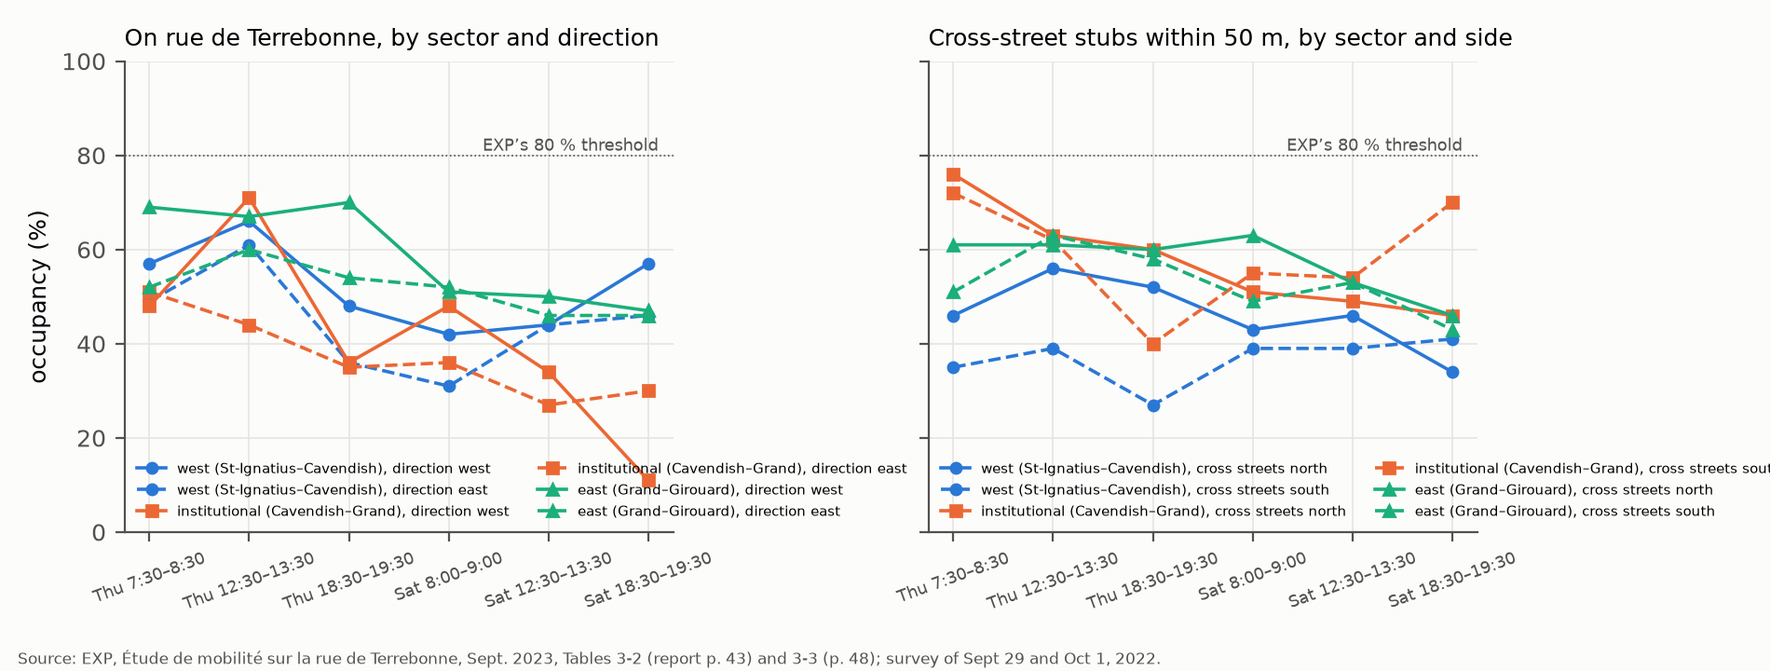
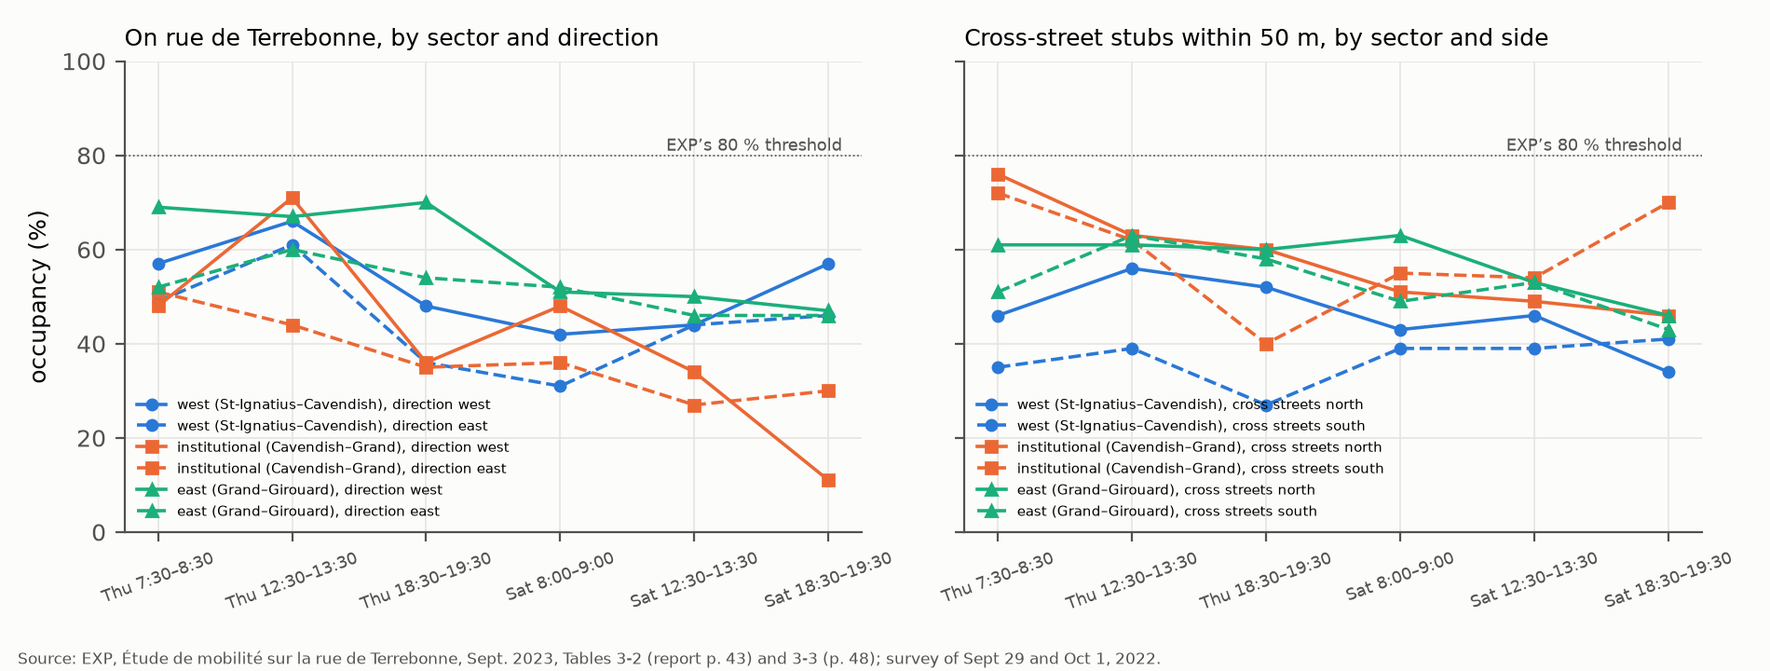
Parking supply and demand, survey in context: note (technical abstract + short lay summary), deck, lay abstracts short/long, README, root README row, figure layouts
Claude-Session: https://claude.ai/code/session_01DdMD1Ynaup9vHHTqib8XjE

diff --git a/2026-parking-supply-demand-survey-context/derived/build_docs.py b/2026-parking-supply-demand-survey-context/derived/build_docs.py
@@ -1,0 +1,166 @@
+#!/usr/bin/env python3
+"""Note (A4) and deck (beamer 16:9), English, plus the lay abstracts (short in the note, both as .txt), from summary.json and the figures of parking_analysis.py."""
+import csv, json, os, subprocess, datetime
+HERE = os.path.dirname(os.path.abspath(__file__)); S = json.load(open(os.path.join(HERE, 'summary.json'))); STAMP = datetime.datetime.now().strftime('%Y-%m-%d')
+URL = 'https://openmobilitydata.github.io/Terrebonne-open-sources/2026-parking-supply-demand-survey-context/'
+esc = lambda s: str(s).replace('&', '\\&').replace('%', '\\%').replace("'", "\\textquoteright{}").replace('–', '--').replace('≥', '$\\geq$').replace('≤', '$\\leq$')
+E, CU, SV, OF, RL, WN = S['exp'], S['curbs'], S['survey']['groups'], S['offstreet'], S['roll'], S['winters']
+on, bl, co = SV['on Terrebonne'], SV['within one block'], SV['corridor (both)']; tp = E['thu_pm']; T71 = E['stated']['table71']
+pc = lambda x: f'{100 * x:.0f}\\,\\%'; ci = lambda c: f'{100 * c[0]:.0f}--{100 * c[1]:.0f}\\,\\%'
+per_rows = '\n'.join(f"{r['label']} & {r['terrebonne_occupied']} & {r['terrebonne_vacant']} & {pc(r['terrebonne_occupancy'])} & {r['stubs_occupied']} & {r['stubs_vacant']} & {pc(r['stubs_occupancy'])} \\\\" for r in E['by_period'])
+sec_rows = '\n'.join(f"{s} & {v['blocks']} & {v['exp_supply_derived']} & {v['exp_thu_pm_occupied']} & {v['lidar_night']} & {pc(v['lidar_night_over_exp_supply'])} & {v['optical_day']} \\\\" for s, v in CU['by_sector'].items())
+sv_rows = '\n'.join(f"{esc(k)} & {g['respondents']} & {g['with_vehicle']} & {g['offstreet_built_ge1']} of {g['offstreet_built_answered']} & {g['parked_own_offstreet']} & {g['parked_terrebonne']} & {g['parked_cross_within_block']} & {g['street_parkers']} & {g['hardship_strict']} / {g['hardship_loose']} \\\\" for k, g in SV.items())
+win_rows = '\n'.join(f"{w['winter']} & {w['loading_borough']} & {w['loading_sector']} & {w['storm_to_loading_borough']} & {w['storm_to_loading_sector']} & {w['snow_days']} \\\\" for w in WN['rows'])
+fig = lambda name, w=1.0, cap='': f"\\begin{{figure}}[htbp]\\centering\\includegraphics[width={w}\\textwidth]{{figures/{name}_en.png}}" + (f"\\caption{{{cap}}}" if cap else '') + f"\\label{{fig:{name}}}\\end{{figure}}"
+one_side = (E['stated']['terrebonne_wb'] + E['stated']['terrebonne_eb']) / 2
+
+ABSTRACT = f"""The APC-NDG survey of October--November 2026 reports, for residents on rue de Terrebonne or within one block, how many keep a vehicle, how many have an off-street place, where the car was parked last night and how often winter parking was hard. Those are counts of respondents. This note places them against the measurements that exist of the parking they describe: the borough\\textquoteright{{}}s 2023 study (EXP), which inventoried {E['stated']['terrebonne']} on-street places on Terrebonne and {E['stated']['stubs']} on the cross-street stubs within 50 m and measured their occupancy on a Thursday and a Saturday of September--October 2022; the 2015 City LiDAR night and a daytime orthophoto, on which the cars at Terrebonne\\textquoteright{{}}s curbs were counted block by block before the 2024 lane; the 1954--55 insurance plans and present-day imagery, which give the share of buildings with a garage or driveway; the City assessment roll, which gives the dwellings; and five winters of snow-removal records. EXP found occupancy below its own 80\\,\\% threshold at every period in every sector: at 18:30--19:30 on the Thursday, {tp['terrebonne_occupied']} cars occupied {pc(tp['terrebonne_occupancy'])} of Terrebonne\\textquoteright{{}}s places, leaving {tp['terrebonne_vacant']} vacant there and {tp['stubs_vacant']} on the stubs. The 2015 night count found {CU['lidar_night_by_eye']} cars at the curbs, {pc(CU['lidar_night_over_exp_supply'])} of the 2022 supply, rising from {pc(CU['by_sector']['residential west']['lidar_night_over_exp_supply'])} in the west sector to {pc(CU['by_sector']['residential east']['lidar_night_over_exp_supply'])} in the east. Both measurements of demand before the lane are of the order of the supply that remains on one side today (about {one_side:.0f} places). On Terrebonne itself, {OF['pct_buildings']:.0f}\\,\\% of buildings and {OF['pct_dwellings']:.0f}\\,\\% of dwellings have a garage or driveway; the survey\\textquoteright{{}}s respondents on the street report an off-street place in {on['offstreet_built_ge1']} of {on['offstreet_built_answered']} households with a vehicle ({pc(on['offstreet_built_share'])}, interval {ci(on['offstreet_built_ci'])}), those within a block in {bl['offstreet_built_ge1']} of {bl['offstreet_built_answered']}. The survey\\textquoteright{{}}s {co['street_parkers']} street parkers and {co['hardship_strict']} reports of strict winter hardship are floors under a population of {RL['terrebonne']['dwellings']:,} dwellings on Terrebonne and {RL['within_block']['dwellings']:,} within a block, of which the survey reached {pc(RL['coverage']['on_terrebonne'])} and {pc(RL['coverage']['within_block'])}. The conditions the hardship questions describe occurred on about {WN['mean_storm_to_loading_sector']:.0f} nights a winter over the last five, {WN['mean_loading_sector']:.0f} of them with snow loading. No measurement of present-day occupancy, with the lane in place, exists; the first parking analysis the borough has commissioned since 2022 is due on November 27, 2026."""
+
+LAY = f"""Lay summary
+
+The survey asked people who live on rue de Terrebonne or within a block of it about their parking: whether they keep a car, whether they have a place off the street, where the car was parked last night, and how hard winter parking has been. The answers are counts of the people who replied, not measurements of the street. This note sets them beside the measurements that do exist.
+
+The borough's own 2023 study counted the parking places and measured how full they were on two days in the autumn of 2022. It found room everywhere: on the Thursday evening, half of the places on Terrebonne were empty, and so were about {tp['stubs_vacant']} places on the first 50 metres of the cross streets. A night-time laser survey of the city in 2015 shows {CU['lidar_night_by_eye']} cars parked along Terrebonne, about one place in three, fewer in the west and more in the east. Both of those counts, taken before the bike lane, are close to the number of places that remain on the one side of the street that still has parking today.
+
+Seven in ten homes on Terrebonne have a garage or a driveway, by a reading of the 1954 insurance plans and of today's aerial imagery. Survey respondents living on Terrebonne reported one less often, about half of the households with a car; respondents within a block reported one about as often as the imagery shows. The difference for the street itself is within what a sample of 35 can show, but it suggests that households without off-street parking were more likely to answer.
+
+{co['street_parkers']} respondents from the corridor had parked on a street the night before, {co['parked_terrebonne']} of them on Terrebonne itself, and {co['hardship_strict']} described real difficulty in winter under the survey's strict definition. Those are floors: there are {RL['terrebonne']['dwellings']:,} dwellings on Terrebonne and about {RL['within_block']['dwellings']:,} within a block, and the survey reached one home in fifteen on the street and one in seventy nearby. The conditions the difficulty questions describe, snow removal pending or under way, happened on about {WN['mean_storm_to_loading_sector']:.0f} nights a winter over the last five winters, {WN['mean_loading_sector']:.0f} of them nights of snow loading itself, with stretches of three weeks or more without any every winter.
+
+What no one has measured is how full the street is now, with the lane in place and parking on one side. The borough's own study of 2023 is the last measurement of occupancy; the next, commissioned in October 2026, is due on November 27 and counts the supply only.
+"""
+LAY_SHORT = f"""Lay summary
+
+The survey asked people living on rue de Terrebonne or within a block about their parking. They count the people who replied, not the street. This note sets them beside the measurements on record: the borough's 2023 study (places and their occupancy on two days in 2022), a 2015 night laser survey, the 1954 insurance plans with today's aerial imagery, the City's roll of dwellings, and five winters of snow-loading records.
+
+The 2023 study found half of Terrebonne's places empty on the Thursday evening; the 2015 night count found {CU['lidar_night_by_eye']} cars along the street, one place in three. Both, taken before the lane, are close to today's supply on one side. Seven in ten homes on Terrebonne have a garage or driveway; respondents on the street reported one less often, within what 35 answers can show. The survey's {co['street_parkers']} street parkers and {co['hardship_strict']} reports of winter difficulty are floors under {RL['terrebonne']['dwellings']:,} dwellings on the street and {RL['within_block']['dwellings']:,} nearby; snow loading constrained parking on about {WN['mean_storm_to_loading_sector']:.0f} nights a winter, {WN['mean_loading_sector']:.0f} with loading itself. Nobody has measured how full the street is now, lane in place.
+"""
+open(os.path.join(HERE, 'lay_abstract_en_long.txt'), 'w', encoding='utf-8').write(LAY.strip() + '\n'); open(os.path.join(HERE, 'lay_abstract_en_short.txt'), 'w', encoding='utf-8').write(LAY_SHORT.strip() + '\n')
+wc = lambda t: len(t.split()); lim = wc(' '.join(LAY.strip().split('\n\n')[1:3])); short_wc = wc(' '.join(LAY_SHORT.strip().split('\n\n')[1:]))
+assert short_wc <= lim, f'short lay summary {short_wc} words exceeds {lim}'; print(f'lay summary: long {wc(LAY)} words, short {short_wc} (limit {lim})')
+LAY_TEX = '\\section*{Lay summary}\n' + '\n\n'.join(esc(p) for p in LAY_SHORT.strip().split('\n\n')[1:]) + '\n'
+
+NOTE = r'''\documentclass[11pt,a4paper]{article}
+\usepackage[T1]{fontenc}\usepackage[utf8]{inputenc}\usepackage[scaled=0.95]{helvet}\renewcommand{\familydefault}{\sfdefault}
+\usepackage[a4paper,margin=2.2cm]{geometry}\usepackage{graphicx,booktabs,longtable,amsmath,caption}\usepackage[hidelinks]{hyperref}
+\captionsetup{font=small,labelfont=bf}\setlength{\parindent}{0pt}\setlength{\parskip}{0.6em}
+\begin{document}
+{\LARGE\textbf{Parking around rue de Terrebonne: supply, measured demand, and the survey\textquoteright{}s answers in context}}\\[4pt]
+{\small Terrebonne-open-sources, ''' + STAMP + r'''. Author: a resident of Côte-des-Neiges--Notre-Dame-de-Grâce (see the repository\textquoteright{}s « About the author »). Companion to the note on winter bicycle counts and user frequency. Data: EXP 2023 (the borough\textquoteright{}s published study), City LiDAR 2015 and assessment roll (open data, CC-BY 4.0), Québec orthophoto, BAnQ plans, ECCC, City snow-removal transactions, the APC-NDG survey\textquoteright{}s anonymized file. Code, tables and figures: \url{''' + URL + r'''}.}
+
+\section*{Abstract}
+''' + ABSTRACT + r'''
+
+''' + LAY_TEX + r'''
+\tableofcontents
+
+\section{Question}
+The companion note placed the survey\textquoteright{}s count of winter cyclists against the bicycle counters. This note does the same for its parking answers. The survey counts respondents: corridor residents who keep a vehicle, who have an off-street place, who parked on a street last night, who met the survey\textquoteright{}s definition of winter hardship. The measurements that exist of the same street are of a different kind: an inventory of places and their occupancy on two days (EXP, 2022), two snapshots of the cars at the curbs before the lane (LiDAR 2015; orthophoto), a reading of off-street parking building by building (the 1954--55 plans and present-day imagery), the dwellings on the roll, and the nights of snow-removal constraint. The questions are the same as before: what do the external measurements say about the population the respondents come from; can the survey\textquoteright{}s shares be checked against a ground truth; and what do the counts leave unmeasured.
+
+\section{Data}
+\begin{itemize}
+\item \textbf{EXP 2023} (Étude de mobilité sur la rue de Terrebonne, September 2023, the borough\textquoteright{}s published study). Supply (report p.~40): ''' + f"{E['stated']['terrebonne_wb']}" + r''' on-street places in the westbound direction and ''' + f"{E['stated']['terrebonne_eb']}" + r''' eastbound on Terrebonne; ''' + f"{E['stated']['stubs_north']}" + r''' north and ''' + f"{E['stated']['stubs_south']}" + r''' south on the first 50~m of the cross streets. Occupancy and vacant places by sector (west, St-Ignatius--Cavendish; institutional, Cavendish--Grand; east, Grand--Girouard), by direction or side and by period, on Thursday, September 29, 2022 (7:30--8:30, 12:30--13:30, 18:30--19:30) and Saturday, October 1 (8:00--9:00, 12:30--13:30, 18:30--19:30): Tables 3-2 (p.~43) and 3-3 (p.~48), transcribed in \texttt{exp2023\_parking\_tables\_transcribed.csv}. Works between Walkley and Cumberland at the time (p.~4). Table 7-1 (p.~88): ''' + f"{T71['current']}" + r''' places in the existing situation, ''' + f"{T71['standards']}" + r''' after bringing the street to standards, ''' + f"{T71['scenario1']}" + r'''--''' + f"{T71['scenario2']}" + r''' under the three concepts.
+\item \textbf{Cars at the curbs before the lane}: per block, both curbs, from the City\textquoteright{}s 2015 airborne LiDAR (a weeknight; cars read by eye on the height raster, ''' + f"{CU['lidar_night_by_eye']}" + r''') and from the Québec orthophoto (daytime, undated, before the 2024 lane; ''' + f"{CU['optical_day']}" + r'''), as read for the 1954-plans work (\texttt{1954-underwriters-plans-terrebonne-garages}). Two snapshots, not a before-and-after.
+\item \textbf{Off-street parking}: the 1954--55 Underwriters\textquoteright{} plans (garage as built) and present-day imagery (driveway or apron) for the ''' + f"{OF['buildings_checked']}" + r''' residential buildings with a Terrebonne address on the sixteen sheets available, joined to the roll for dwellings (''' + f"{OF['dwellings_checked']}" + r''').
+\item \textbf{Dwellings}: the City assessment roll (open data), units with a centroid between avenue Somerled (''' + f"{RL['band']['north_offset_m']:.0f}" + r'''~m north of the lane\textquoteright{}s axis) and avenue de Monkland (''' + f"{-RL['band']['south_offset_m']:.0f}" + r'''~m south), along the lane from its west end to Girouard, the two avenues\textquoteright{} own frontages included; the survey\textquoteright{}s « within one block » band.
+\item \textbf{Survey}: the anonymized file as of ''' + f"{S['survey']['asof']}" + r''' (''' + f"{S['survey']['responses']}" + r''' responses; the public filing of November 2 reports 205), with the criteria of the filing\textquoteright{}s methods page: a street parker ticked Terrebonne, a cross street or Somerled/Monkland for last night; strict hardship = ten minutes or more to find a space or a space two blocks or more away on a typical evening, or, after a storm or during loading, a car two blocks or more away, a ticket, a tow or a car moved out of the neighbourhood; loose adds « took much longer to find a space ».
+\item \textbf{Winters}: nights with snow removal pending or under way and nights with loading, December~1 to March~31, 2021--22 to 2025--26, for the borough and for Terrebonne\textquoteright{}s sector CDN-301 (City snow-removal transactions and ECCC; computed in the author\textquoteright{}s decision model).
+\end{itemize}
+
+\section{Method}
+EXP gives, for each sector and side, the occupancy rate and the number of vacant places at each period; the supply of that sector and side is recovered as vacant $/(1 - \text{rate})$ and taken as the median over the six periods (sum ''' + f"{E['derived_total_terrebonne']}" + r''' on Terrebonne and ''' + f"{E['derived_total_stubs']}" + r''' on the stubs against the stated ''' + f"{E['stated']['terrebonne']}" + r''' and ''' + f"{E['stated']['stubs']}" + r'''; the difference is rounding in the published rates). Occupied places per period follow. The curb counts are summed by block and by sector and set against the EXP supply of the same sector. The survey\textquoteright{}s shares carry 95\,\% Wilson intervals; the comparison with the plans-and-imagery reading is made on respondents on Terrebonne itself (the reading covers Terrebonne addresses only) and on those within a block. Coverage is respondents divided by dwellings on the roll, a share of dwellings rather than of households.
+
+\section{Results}
+\subsection{What EXP measured in 2022}
+\begin{table}[htbp]\centering\small\caption{Occupied and vacant places by period, September 29 and October 1, 2022 (EXP Tables 3-2 and 3-3; supply derived as described).}\label{tab:per}
+\begin{tabular}{@{}lrrrrrr@{}}\toprule period & Terrebonne occupied & vacant & occupancy & stubs occupied & vacant & occupancy\\ \midrule
+''' + per_rows + r'''
+\bottomrule\end{tabular}\end{table}
+Occupancy on Terrebonne as a whole never exceeded ''' + pc(E['max_occupancy_terrebonne']) + r''' at any period, and no sector-and-direction cell exceeded 71\,\% on Terrebonne or ''' + f"{E['peak_cell']['occupancy_pct']}" + r'''\,\% on the stubs (''' + esc(E['peak_cell']['sector']) + r''', ''' + esc(E['peak_cell']['side_or_direction']) + r''', ''' + esc(E['peak_cell']['period']) + r'''). At the Thursday evening period, the closest the survey comes to a residential evening, ''' + f"{tp['terrebonne_occupied']}" + r''' cars occupied ''' + pc(tp['terrebonne_occupancy']) + r''' of the places on Terrebonne, with ''' + f"{tp['terrebonne_vacant']}" + r''' vacant on the street and ''' + f"{tp['stubs_vacant']}" + r''' on the stubs; the east sector was the fullest (''' + f"{tp['residential east_terrebonne_occupied']}" + r''' occupied, ''' + f"{tp['residential east_terrebonne_vacant']}" + r''' vacant). EXP\textquoteright{}s own reading (p.~43 and p.~48) is that rates below 80\,\% leave flexibility, and its Table 7-1 projects the concepts\textquoteright{} ''' + f"{T71['scenario1']}" + r'''--''' + f"{T71['scenario2']}" + r''' remaining places against ''' + f"{T71['standards']}" + r''' after standards, with the residual capacity by sector and period in Tables 7-2 to 7-4 (pp.~89--90), where it notes that occupancy may be locally higher near Girouard, Grand and Walkley.
+''' + fig('exp_occupancy', 1.0, 'Occupancy by sector, direction or side, and period (EXP Tables 3-2 and 3-3). Dotted line: the 80\\,\\% threshold EXP uses.') + r'''
+''' + fig('exp_occupied_vacant', 0.9, 'Occupied (number on the bar) and vacant places per period on Terrebonne and on the cross-street stubs.') + r'''
+
+\subsection{The cars at the curbs, 2015 and the orthophoto}
+\begin{table}[htbp]\centering\small\caption{Cars at Terrebonne\textquoteright{}s curbs by sector, both sides, against EXP\textquoteright{}s supply and its Thursday-evening count.}\label{tab:sec}
+\begin{tabular}{@{}lrrrrrr@{}}\toprule sector & blocks & EXP supply (derived) & EXP occupied, Thu 18:30 & LiDAR night 2015 & night / supply & orthophoto, day\\ \midrule
+''' + sec_rows + r'''
+\bottomrule\end{tabular}\end{table}
+The 2015 weeknight (a leaf-on night of unknown week, both curbs available, before the lane) holds ''' + f"{CU['lidar_night_by_eye']}" + r''' cars on the ''' + f"{CU['length_m']:,}" + r'''~m of the lane, ''' + pc(CU['lidar_night_over_exp_supply']) + r''' of the 2022 supply, against a nominal capacity of about ''' + f"{CU['nominal_capacity_both_sides']}" + r''' at 6~m per car. The gradient runs east: ''' + pc(CU['by_sector']['residential west']['lidar_night_over_exp_supply']) + r''' of supply in the west sector, ''' + pc(CU['by_sector']['institutional']['lidar_night_over_exp_supply']) + r''' in the institutional sector, ''' + pc(CU['by_sector']['residential east']['lidar_night_over_exp_supply']) + r''' in the east, as in EXP\textquoteright{}s evening rates. The busiest blocks that night were ''' + esc(', '.join(f"{b['block']} ({b['cars']})" for b in CU['top_blocks_lidar'][:4])) + r'''. The daytime orthophoto holds ''' + f"{CU['optical_day']}" + r''', almost all on the south curb, which says more about the hour and the shadows than about demand. On the side the winter layout converts to parking (north west of Cavendish, south east of it) the night count is ''' + f"{CU['lidar_converted_side']}" + r''' and the day count ''' + f"{CU['optical_converted_side']}" + r'''.
+''' + fig('curb_cars_by_block', 1.0, 'Cars at the curbs by block, west to east: the 2015 LiDAR night (by eye) and the daytime orthophoto, both curbs; dashed: nominal capacity at 6 m per car; red strip: the side converted to parking in winter.') + r'''
+
+\textbf{Against the supply that remains.} The 2024 layout kept one parking band, of the order of ''' + f"{one_side:.0f}" + r''' places (EXP counted ''' + f"{E['stated']['terrebonne_wb']}" + r''' and ''' + f"{E['stated']['terrebonne_eb']}" + r''' per direction). The two measurements of demand before the lane, ''' + f"{CU['lidar_night_by_eye']}" + r''' cars on a 2015 night and ''' + f"{tp['terrebonne_occupied']}" + r''' on a 2022 Thursday evening, bracket that figure. In aggregate, the demand measured before the lane is of the order of the supply that remains on one side; by sector it is below it in the west and institutional sectors and near it in the east, before counting the ''' + f"{tp['stubs_vacant']}" + r''' places EXP found vacant on the stubs at the same evening hour. Whether the street is fuller today than those measurements suggest cannot be known from them: no occupancy count has been made since the lane was built.
+
+\subsection{Off-street parking: a ground truth for one survey question}
+''' + fig('offstreet_share', 0.9) + r'''
+The plans-and-imagery reading finds a garage or driveway at ''' + f"{OF['buildings_either']}" + r''' of ''' + f"{OF['buildings_checked']}" + r''' buildings (''' + f"{OF['pct_buildings']:.0f}" + r'''\,\%, interval ''' + ci(OF['buildings_ci']) + r''') and for ''' + f"{OF['dwellings_either']}" + r''' of ''' + f"{OF['dwellings_checked']}" + r''' dwellings (''' + f"{OF['pct_dwellings']:.0f}" + r'''\,\%); north side ''' + f"{OF['by_side']['N']['either']}" + r''' of ''' + f"{OF['by_side']['N']['checked']}" + r''', south side ''' + f"{OF['by_side']['S']['either']}" + r''' of ''' + f"{OF['by_side']['S']['checked']}" + r'''. Survey respondents on Terrebonne with a vehicle report at least one off-street place in ''' + f"{on['offstreet_built_ge1']}" + r''' of ''' + f"{on['offstreet_built_answered']}" + r''' cases (''' + pc(on['offstreet_built_share']) + r''', ''' + ci(on['offstreet_built_ci']) + r'''), those within a block in ''' + f"{bl['offstreet_built_ge1']}" + r''' of ''' + f"{bl['offstreet_built_answered']}" + r''' (''' + pc(bl['offstreet_built_share']) + r'''). The on-street figure sits at the low edge of its interval against the reading. Two readings fit: households without off-street parking on Terrebonne were more likely to answer, which is what a survey about parking would be expected to do; or some respondents with a driveway did not count it (the question asked for places « built for a vehicle now »). Within a block, the survey and the reading agree, though the reading does not cover the cross streets. Either way, the survey\textquoteright{}s parking answers should not be read as shares of the street\textquoteright{}s households.
+
+\subsection{The survey\textquoteright{}s demand floor}
+\begin{table}[htbp]\centering\small\caption{The survey\textquoteright{}s parking answers by group (anonymized file as of ''' + f"{S['survey']['asof']}" + r'''). Street parkers ticked a street for last night; hardship strict / loose as in the filing.}\label{tab:sv}
+\resizebox{\textwidth}{!}{\begin{tabular}{@{}lrrrrrrrr@{}}\toprule group & respondents & with a vehicle & off-street place (of answered) & parked own off-street & on Terrebonne & cross street within a block & street parkers & hardship strict / loose\\ \midrule
+''' + sv_rows + r'''
+\bottomrule\end{tabular}}\end{table}
+''' + fig('survey_parked_last_night', 0.9) + r'''
+Of the ''' + f"{co['respondents']}" + r''' corridor respondents, ''' + f"{co['with_vehicle']}" + r''' keep a vehicle; ''' + f"{co['street_parkers']}" + r''' parked on a street the night before (''' + f"{co['parked_terrebonne']}" + r''' on Terrebonne, ''' + f"{co['parked_cross_within_block']}" + r''' on a cross street within a block), and of those ''' + f"{co['hardship_strict']}" + r''' met the strict hardship criterion and ''' + f"{co['hardship_loose']}" + r''' the loose one. On Terrebonne itself, ''' + f"{on['street_parkers']}" + r''' of ''' + f"{on['respondents']}" + r''' respondents are street parkers and ''' + f"{on['hardship_strict']}" + r''' of them report strict hardship; ''' + f"{on['street_parkers_no_offstreet']}" + r''' of the ''' + f"{on['street_parkers']}" + r''' have no off-street place of their own. These are floors under the population, in the sense of the filing: at least this many answered this way.
+
+\subsection{The population}
+The roll holds ''' + f"{RL['terrebonne']['dwellings']:,}" + r''' dwellings in ''' + f"{RL['terrebonne']['units']}" + r''' units with a Terrebonne address along the lane, and ''' + f"{RL['within_block']['dwellings']:,}" + r''' dwellings in ''' + f"{RL['within_block']['units']:,}" + r''' units within the Somerled--Monkland band (bounding-box extract, clipped near Girouard on the north side). The survey reached ''' + pc(RL['coverage']['on_terrebonne']) + r''' of the dwellings on the street and ''' + pc(RL['coverage']['within_block']) + r''' of those within a block. The plans-and-imagery reading covers ''' + f"{OF['dwellings_checked']}" + r''' of the ''' + f"{RL['terrebonne']['dwellings']:,}" + r''' dwellings on the street (houses and plexes on the sheets available; the apartment blocks and the missing sheet are outside it).
+
+\subsection{The winters}
+\begin{table}[htbp]\centering\small\caption{Nights with a snow-removal constraint on parking, December 1 to March 31, five winters (borough; sector CDN-301).}\label{tab:win}
+\begin{tabular}{@{}lrrrrr@{}}\toprule winter & loading, borough & loading, sector & storm-to-loading, borough & storm-to-loading, sector & snow days $\geq 2.5$ cm\\ \midrule
+''' + win_rows + r'''
+\bottomrule\end{tabular}\end{table}
+''' + fig('winter_constraint_nights', 0.8) + r'''
+The hardship questions ask about a typical winter evening and about the days after a storm or during loading. Over five winters the second condition held on about ''' + f"{WN['mean_storm_to_loading_sector']:.0f}" + r''' of 121 nights in the sector, ''' + f"{WN['mean_loading_sector']:.0f}" + r''' of them with loading itself, with stretches of three weeks or more without it every winter. The survey cannot say how often a given respondent met the condition; the record says how often the condition existed.
+
+\section{Discussion}
+\textbf{What the external data settle.} Before the lane, parking on Terrebonne was measured twice and found about one-third to one-half full at the hours measured, with the east sector fuller than the west and ample room on the cross-street stubs. Seven in ten dwellings on the street have off-street parking. The supply that remains on one side today is of the order of the demand measured then. Those are measurements, and the survey\textquoteright{}s counts sit inside them: ''' + f"{co['street_parkers']}" + r''' street parkers among ''' + f"{RL['band_total']['dwellings']:,}" + r''' dwellings is a floor, not a rate, and the off-street check shows the sample tilted, on the street itself, toward households that park on the street.
+
+\textbf{What they do not.} The present occupancy, with the lane in place, is unmeasured: the borough has counted nothing since 2022, the survey\textquoteright{}s « last night » is an autumn night reported by respondents, and the 2015 night is a single snapshot with both curbs open. The hardship counts have no external check at all, only a record of how often the triggering conditions occur. The first parking analysis commissioned since 2022 (EXP\textquoteright{}s mandate of October 6, 2026, due November 27) is an analysis of supply, « cases existantes, ajoutées ou retranchées », not of occupancy.
+
+\textbf{What would close the gap.} A night occupancy count on Terrebonne\textquoteright{}s remaining band and on the cross streets within a block, repeated on a few weeknights including one with snow removal pending, would give the measurement the 2022 survey gave for the pre-lane street; extending the garage-and-driveway reading to the first block of each cross street would give the within-a-block respondents the same ground truth the on-street respondents have.
+
+\section{Reproducibility}
+\texttt{parking\_analysis.py} reads the sources in place and writes \texttt{summary.json} (every number quoted here), \texttt{exp2022\_occupancy\_by\_period.csv}, \texttt{survey\_parking\_by\_group.csv} and the figures; \texttt{exp2023\_parking\_tables\_transcribed.csv} is the hand transcription of EXP\textquoteright{}s Tables 3-2 and 3-3 with their pages; \texttt{build\_docs.py} writes this note, the deck and the lay summaries. Generated ''' + esc(S['generated']) + r'''.
+\end{document}
+'''
+
+DECK = r'''\documentclass[aspectratio=169,10pt]{beamer}\usetheme{default}\usecolortheme{seahorse}\setbeamertemplate{navigation symbols}{}\setbeamertemplate{footline}[frame number]
+\usepackage[T1]{fontenc}\usepackage[utf8]{inputenc}\usepackage{helvet}\usepackage{booktabs}
+\title{Parking around rue de Terrebonne}\subtitle{Supply, measured demand, and the survey\textquoteright{}s answers in context}\author{Terrebonne-open-sources (a resident of Côte-des-Neiges--Notre-Dame-de-Grâce)}\date{''' + STAMP + r'''}
+\begin{document}
+\begin{frame}\titlepage\end{frame}
+\begin{frame}{The question}\begin{itemize}
+\item The survey counts respondents: who keeps a vehicle, who has an off-street place, where the car was last night, who met the winter-hardship definition.
+\item The measurements that exist are of another kind: EXP\textquoteright{}s 2022 inventory and occupancy (two days), the cars at the curbs on a 2015 night and a daytime orthophoto, off-street parking building by building, the roll\textquoteright{}s dwellings, five winters of snow-removal nights.
+\item What do they say about the population the respondents come from, which survey answers can be checked, and what remains unmeasured?
+\end{itemize}\end{frame}
+\begin{frame}{EXP 2022: occupancy by sector and period}\centering\includegraphics[width=0.95\textwidth]{figures/exp_occupancy_en.png}\\{\scriptsize Thursday Sept 29 and Saturday Oct 1, 2022; Tables 3-2 (p.~43) and 3-3 (p.~48). No cell above 71\,\% on Terrebonne; every sector below EXP\textquoteright{}s 80\,\% threshold at every period.}\end{frame}
+\begin{frame}{EXP 2022: occupied and vacant places}\centering\includegraphics[width=0.85\textwidth]{figures/exp_occupied_vacant_en.png}\\{\scriptsize Thursday 18:30--19:30: ''' + f"{tp['terrebonne_occupied']}" + r''' cars on Terrebonne (''' + pc(tp['terrebonne_occupancy']) + r'''), ''' + f"{tp['terrebonne_vacant']}" + r''' places vacant there and ''' + f"{tp['stubs_vacant']}" + r''' on the stubs. Supply per sector derived from the vacant places and the rate; stated totals ''' + f"{E['stated']['terrebonne']}" + r''' and ''' + f"{E['stated']['stubs']}" + r''' (p.~40).}\end{frame}
+\begin{frame}{The cars at the curbs before the lane}\centering\includegraphics[width=\textwidth]{figures/curb_cars_by_block_en.png}\end{frame}
+\begin{frame}{By sector: night 2015, EXP evening 2022, and today\textquoteright{}s one side}\centering\small\begin{tabular}{@{}lrrrrrr@{}}\toprule sector & blocks & EXP supply & EXP occupied, Thu 18:30 & LiDAR night 2015 & night / supply & orthophoto, day\\ \midrule
+''' + sec_rows + r'''
+\bottomrule\end{tabular}\\[6pt]\footnotesize Both measurements of demand before the lane (''' + f"{CU['lidar_night_by_eye']}" + r''' and ''' + f"{tp['terrebonne_occupied']}" + r''' cars on Terrebonne) are of the order of the one parking band that remains today (about ''' + f"{one_side:.0f}" + r''' places); below it in the west, near it in the east, with ''' + f"{tp['stubs_vacant']}" + r''' places vacant on the stubs at the same hour in 2022. Nothing has been measured since the lane was built.\end{frame}
+\begin{frame}{Off-street parking: a ground truth for one survey question}\centering\includegraphics[width=0.9\textwidth]{figures/offstreet_share_en.png}\\{\scriptsize Seven in ten dwellings on Terrebonne have a garage or driveway. Respondents on the street report one in ''' + f"{on['offstreet_built_ge1']}" + r''' of ''' + f"{on['offstreet_built_answered']}" + r''' households with a vehicle: at the low edge of the interval, as a survey about parking would be expected to show. Within a block, survey and reading agree.}\end{frame}
+\begin{frame}{The survey\textquoteright{}s demand floor}\centering\scriptsize\resizebox{\textwidth}{!}{\begin{tabular}{@{}lrrrrrrrr@{}}\toprule group & respondents & with a vehicle & off-street place & own off-street last night & on Terrebonne & cross street within a block & street parkers & hardship strict / loose\\ \midrule
+''' + sv_rows + r'''
+\bottomrule\end{tabular}}\\[6pt]\footnotesize Floors, in the filing\textquoteright{}s sense: at least this many answered this way. The roll holds ''' + f"{RL['terrebonne']['dwellings']:,}" + r''' dwellings on Terrebonne and ''' + f"{RL['within_block']['dwellings']:,}" + r''' within the Somerled--Monkland band; the survey reached ''' + pc(RL['coverage']['on_terrebonne']) + r''' and ''' + pc(RL['coverage']['within_block']) + r''' of them.\end{frame}
+\begin{frame}{Where the car was parked last night}\centering\includegraphics[width=0.85\textwidth]{figures/survey_parked_last_night_en.png}\end{frame}
+\begin{frame}{The winters the hardship questions describe}\centering\includegraphics[width=0.75\textwidth]{figures/winter_constraint_nights_en.png}\\{\scriptsize Snow removal pending or under way on about ''' + f"{WN['mean_storm_to_loading_sector']:.0f}" + r''' of 121 nights a winter in the sector, ''' + f"{WN['mean_loading_sector']:.0f}" + r''' with loading; stretches of three weeks or more without it every winter. The record gives how often the condition existed, not how often a respondent met it.}\end{frame}
+\begin{frame}{What is settled, what is not}\begin{itemize}
+\item Settled: before the lane, Terrebonne\textquoteright{}s parking was one-third to one-half full at the hours measured, fuller in the east; seven in ten dwellings have off-street parking; the one band that remains is of the order of the demand measured then.
+\item The survey\textquoteright{}s parking counts sit inside those measurements and are floors, not rates; on the street itself the sample tilts toward households that park on the street.
+\item Not settled: present occupancy with the lane in place (nothing counted since 2022); the hardship counts have no external check.
+\item EXP\textquoteright{}s mandate of October 6, 2026 (due November 27) analyses supply, not occupancy. A night count on the remaining band and the cross streets would close the gap.
+\item Code, tables, figures: \url{''' + URL + r'''}
+\end{itemize}\end{frame}
+\end{document}
+'''
+for name, src in (('parking_supply_demand_note_en', NOTE), ('parking_supply_demand_deck_en', DECK)):
+    open(os.path.join(HERE, name + '.tex'), 'w', encoding='utf-8').write(src)
+    for _ in range(3): subprocess.run(['pdflatex', '-interaction=batchmode', name + '.tex'], cwd=HERE, capture_output=True, text=True)
+    log = open(os.path.join(HERE, name + '.log'), encoding='latin-1').read(); errs = [l for l in log.splitlines() if l.startswith('!')]
+    for e in ('.aux', '.log', '.nav', '.out', '.snm', '.toc'):
+        try: os.remove(os.path.join(HERE, name + e))
+        except OSError: pass
+    pi = subprocess.run(['pdfinfo', os.path.join(HERE, name + '.pdf')], capture_output=True, text=True).stdout
+    print(name, (pi.split('Pages:')[1].split()[0] if 'Pages:' in pi else '?'), 'pages', ('ERRORS: ' + '; '.join(errs[:5])) if errs else 'ok')

diff --git a/2026-parking-supply-demand-survey-context/derived/parking_analysis.py b/2026-parking-supply-demand-survey-context/derived/parking_analysis.py
@@ -54,7 +54,7 @@ for i, (tab, title) in enumerate((('3-2', 'On rue de Terrebonne, by sector and d
         if k[0] != tab: continue
         ax[i].plot(x, [r['occ'] * 100 for r in v], ls[k[2]], marker=mk[k[1]], ms=4, lw=1.3, color=pal[k[1]], label=f'{SLAB[k[1]]}, {k[2]}')
     ax[i].axhline(80, color=C['ink2'], lw=0.6, ls=':'); ax[i].text(5.1, 81, 'EXP’s 80 % threshold', fontsize=6.5, color=C['ink2'], ha='right')
-    ax[i].set_xticks(x); ax[i].set_xticklabels([PLAB[p] for p in PERIODS], fontsize=6.5, rotation=20); ax[i].set_title(title, loc='left', fontsize=9); ax[i].legend(fontsize=5.5, ncol=2, loc='lower left'); ax[i].set_ylim(0, 100)
+    ax[i].set_xticks(x); ax[i].set_xticklabels([PLAB[p] for p in PERIODS], fontsize=6.5, rotation=20); ax[i].set_title(title, loc='left', fontsize=9); ax[i].legend(fontsize=5.5, ncol=1, loc='lower left'); ax[i].set_ylim(0, 100)
 ax[0].set_ylabel('occupancy (%)')
 foot(fig, 'Source: EXP, Étude de mobilité sur la rue de Terrebonne, Sept. 2023, Tables 3-2 (report p. 43) and 3-3 (p. 48); survey of Sept 29 and Oct 1, 2022.'); fig.tight_layout(rect=(0, 0.04, 1, 1)); fig.savefig(os.path.join(FIG, 'exp_occupancy_en.png')); plt.close(fig)
 # figure 2: occupied and vacant places per period
@@ -89,7 +89,7 @@ ax.plot(xb, [2 * b['nominal_per_side'] for b in BL], color=C['ink2'], lw=0.8, ls
 for i, b in enumerate(BL):
     if b['converted_side'] == 'N': ax.axvspan(i - 0.5, i + 0.5, ymin=0.97, ymax=1.0, color='#e34948', alpha=0.5)
     else: ax.axvspan(i - 0.5, i + 0.5, ymin=0.0, ymax=0.03, color='#e34948', alpha=0.5)
-ax.set_xticks(xb); ax.set_xticklabels([b['block_name'] for b in BL], rotation=70, fontsize=6); ax.set_ylabel('cars at the curbs'); ax.legend(fontsize=7, loc='upper left'); ax.set_title('Cars parked on rue de Terrebonne by block, west to east, before the 2024 lane (red strip = side converted to parking in winter: north west of Cavendish, south east of it)', loc='left', fontsize=8.5)
+ax.set_xticks(xb); ax.set_xticklabels([b['block_name'] for b in BL], rotation=70, fontsize=6); ax.set_ylabel('cars at the curbs'); ax.legend(fontsize=7, loc='upper left'); ax.set_title('Cars parked on rue de Terrebonne by block, west to east, before the 2024 lane (red strip: the side converted to parking in winter)', loc='left', fontsize=8.5)
 foot(fig, 'Sources: City LiDAR 2015 (CC-BY 4.0) and Québec orthophoto (Imagerie_GQ), readings by the author (1954-underwriters-plans-terrebonne-garages/derived/on_street_cars_by_block.csv). Two snapshots, not a before-and-after.'); fig.tight_layout(rect=(0, 0.04, 1, 1)); fig.savefig(os.path.join(FIG, 'curb_cars_by_block_en.png')); plt.close(fig)
 
 # ---------------------------------------------------------------- 3. the survey's parking answers (anonymized file; categories as in the filing's methods page)

diff --git a/README.md b/README.md
@@ -56,6 +56,7 @@ Rules:
 | [`2026-city-bike-counters/`](2026-city-bike-counters/) | The City's bicycle counters and intersection detectors: Eco-Compteur's release of June 4, 2026; Radio-Canada, May 29, 2026 (counts back online, 86 City counters, contract not renewed); the open-data methodology; SEAO notices 25-21000, 25-21046, 25-21195 and BC:1721642; council decision CM26 0337 of March 23, 2026 awarding the pedestrian-and-bicycle detector lot to Éco-Compteur (dossier excerpt and minutes); the FLIR TrafiSense2 and TrafiCam pages; the council decisions on detectors 2017–2026 as a table | Eco-Compteur, Radio-Canada, Ville de Montréal (SEAO, council archive, open data), FLIR | 2017–2026 |
 | [`2026-poster-winter-numbers/`](2026-poster-winter-numbers/) | One-page poster, *Rue de Terrebonne in winter: the numbers on one page*: monthly use, speeds, the figures said at council beside the counter's, the weather, the timeline; web page, PDF and preview | The repository's author, from public records | 2026-10-20 |
 | [`2024-st-monica-cra-t3010/`](2024-st-monica-cra-t3010/) | The public part of the T3010 charity returns of the parish of St Monica (6405 rue de Terrebonne), fiscal years 2008–2024: 2008–2018 as released by the CRA's Charities Directorate on December 6, 2024, 2019–2024 as row extracts of the CRA's open-data files (fetched October 23, 2026); tidy tables, charts and a data note EN/FR, with a comparison of the twelve other Catholic parishes of the area and of the streets around their churches (City open data, OpenStreetMap); no person named | Canada Revenue Agency (data); tables, charts and notes by the repository's author | 2024-12-06; 2026-10-23 |
+| [`2026-parking-supply-demand-survey-context/`](2026-parking-supply-demand-survey-context/) | Parking around rue de Terrebonne: EXP's 2022 inventory and occupancy by sector and period (two days), the cars at the curbs on the 2015 LiDAR night and the daytime orthophoto by block, off-street parking from the 1954 plans and imagery as a ground truth for the survey, the roll's dwellings on Terrebonne and within a block, five winters of snow-removal nights, and the APC-NDG survey's parking answers as floors in that context; note with lay summary, deck, tables, figures, code | the author, from the borough's published study, City open data, BAnQ plans, ECCC, the survey's file | 2026-11-07 |
 | [`2026-winter-counts-user-frequency/`](2026-winter-counts-user-frequency/) | How many people cycle rue de Terrebonne in winter, and how often: the winter counts on four sensors (borough loop at Kensington, Telraam at King Edward and Draper, City detector at Girouard) in their overlapping periods, cross-sensor ratios, the structure of the winter at Kensington, model-free floors on distinct cyclists, a frequency-band model with its sensitivity, and the APC-NDG survey's 87 winter cyclists in context; note with lay summary, deck, tables, figures, code | the author, from access requests 2026-300/2026-581/2026-634, the author's Telraam sensors, City open data, ECCC, the survey's public filing | 2026-11-07 |
 | [`2015-lidar-terrebonne-street-width/`](2015-lidar-terrebonne-street-width/) | How wide is rue de Terrebonne: the roadway measured every 2 m on the City's 2015 LiDAR (curb to curb median 11.0 m, block medians 10.8–11.35 m; right-of-way 20.09 m), against the 10.8 m of the 2023 winter cross-section; note, deck, tables, figures, code | the author, from City open data (LiDAR 2015, assessment units, géobase) | 2026-11-04 |
 | [`2016-vision-zero/`](2016-vision-zero/) | The City's Vision Zéro page (updated May 16, 2025) and its action plans 2022–2024 and 2025–2027 (zero deaths and serious injuries by 2040; definitions of protected and unprotected cycle lanes) | Ville de Montréal | 2022–2025 |

diff --git a/2026-parking-supply-demand-survey-context/derived/WORKPLAN.md b/2026-parking-supply-demand-survey-context/derived/WORKPLAN.md
@@ -25,6 +25,8 @@ The APC-NDG survey's parking answers (corridor residents, vehicles, off-street p
 
 ## Status
 - [x] Folder, plan, EXP tables transcribed — Nov 7
-- [ ] parking_analysis.py
-- [ ] build_docs.py, note, deck, lay abstracts
-- [ ] README, root README row; owner's review; graph nodes
+- [x] parking_analysis.py — Nov 7
+- [x] build_docs.py, note, deck, lay abstracts (short in the note, both as txt) — Nov 7
+- [x] README, root README row — Nov 7
+- [ ] Owner's review; graph nodes (t_exp2022_occupancy, t_curb_cars_2015, t_offstreet_check, t_roll_dwellings_band); question lists (the Nov 27 supply-only mandate; the 2023 vs 2026 scope comparison)
+- [ ] Open: a present-day night occupancy count; the garage/driveway reading extended to the cross streets' first blocks
